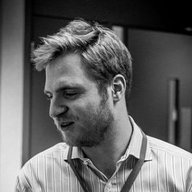
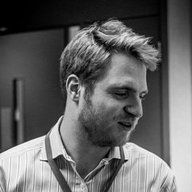
flip image of Matt so both facing same direction, fix text align on mobile

diff --git a/src/components/HomePage/Authors.tsx b/src/components/HomePage/Authors.tsx
@@ -25,10 +25,12 @@ function Author(props) {
     padding-top: 10px;
     vertical-align: top;
     margin-bottom: 52px;
+    text-align: center;
 
     ${media.desktop`
       display: inline-block;
       padding-top: 25px;
+      text-align: left;
     `};
   `;
 
